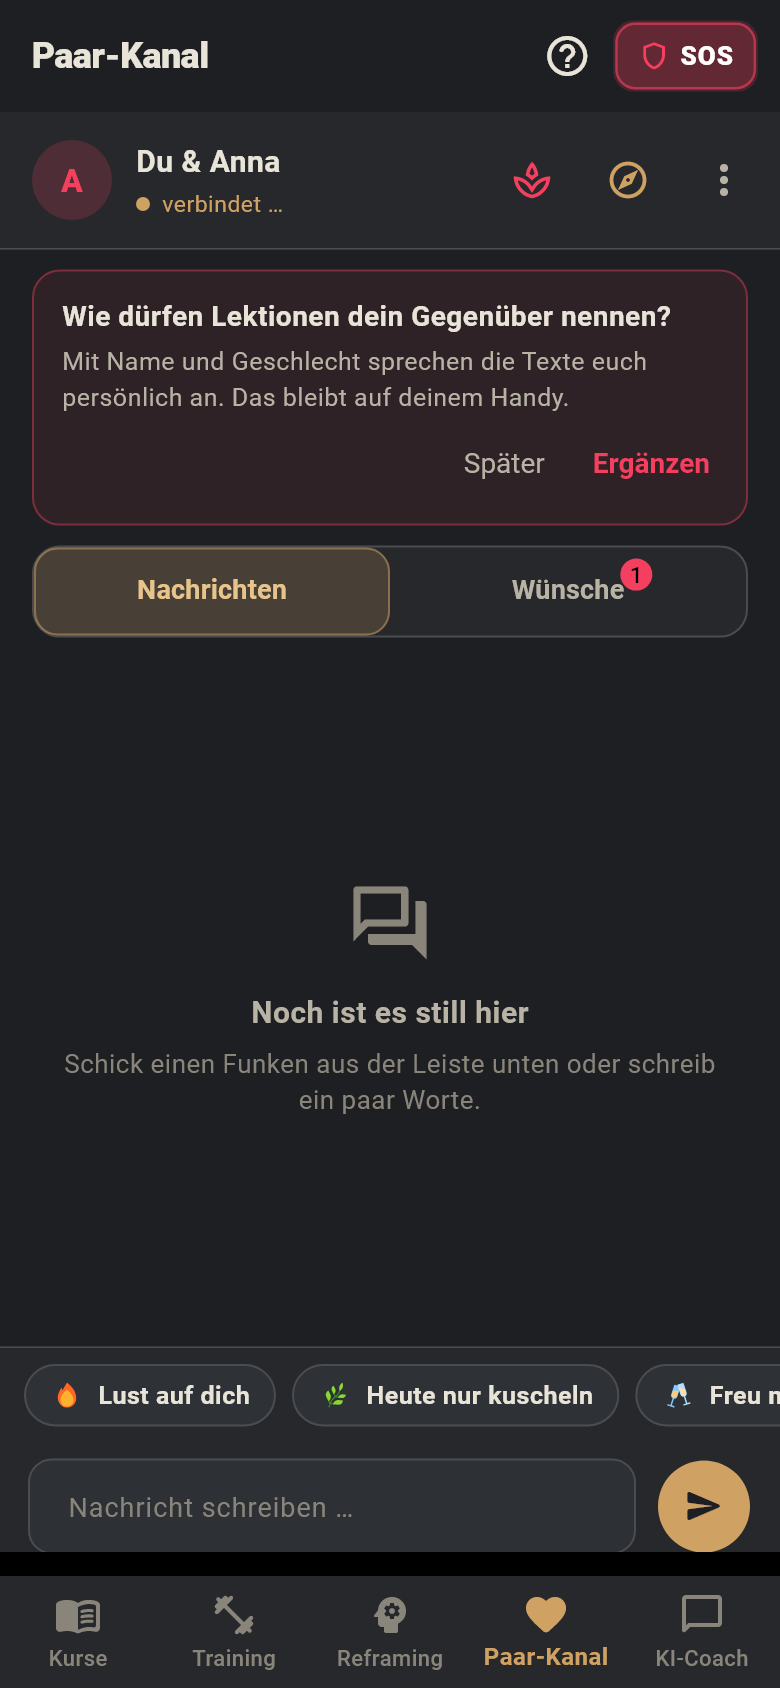
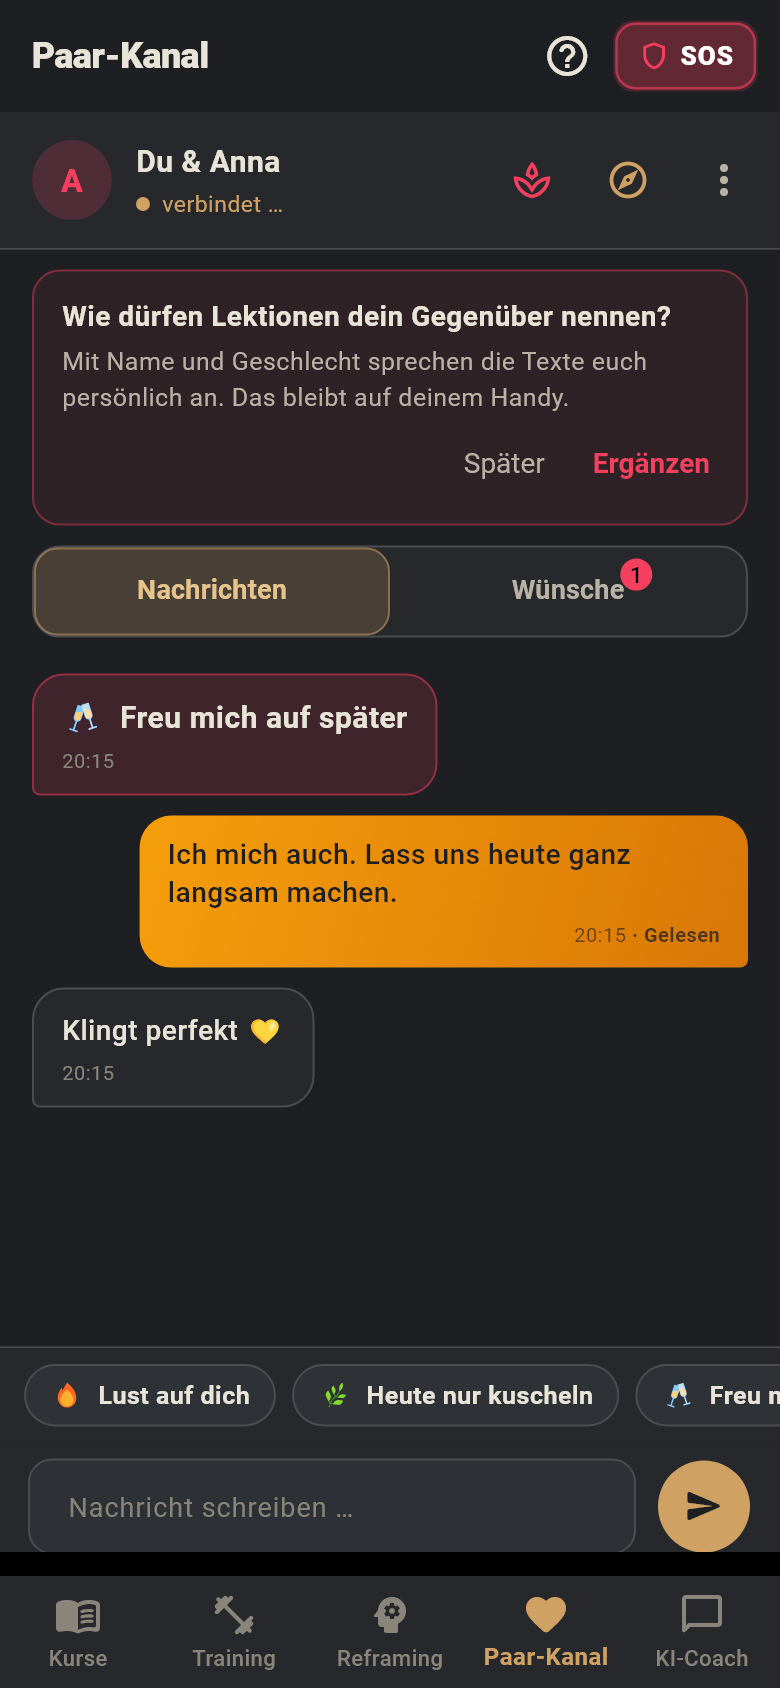
Paar-Kanal-Screenshot wieder mit erfundenen Beispielnachrichten

Changed region(s): [[0.0308, 0.4005, 0.9846, 0.6777], [0.7385, 0.6161, 0.9231, 0.6469]]

diff --git a/test_screens/screens_test.dart b/test_screens/screens_test.dart
@@ -161,7 +161,12 @@ void main() {
       final now = DateTime(2026, 10, 23, 20, 15);
       await prefs.setString('velvet_partner_pubkey', 'a' * 64);
       await prefs.setString('velvet_partner_name', 'Anna');
-      // Bewusst ohne Nachrichten: Die Bilder landen in der README, Chats werden nicht veröffentlicht.
+      // Erfundene Beispielnachrichten eines Beispielpaars (Alex und Anna); keine echten Chats.
+      await prefs.setString('velvet_couple_messages_cache', jsonEncode([
+        {'id': '1', 'isMe': false, 'type': 'ping', 'emoji': '🥂', 'text': 'Freu mich auf später', 'createdAt': '$now'},
+        {'id': '2', 'isMe': true, 'type': 'chat', 'text': 'Ich mich auch. Lass uns heute ganz langsam machen.', 'createdAt': '$now'},
+        {'id': '3', 'isMe': false, 'type': 'chat', 'text': 'Klingt perfekt 💛', 'createdAt': '$now'},
+      ]));
       await prefs.setString('velvet_my_fantasy_votes', jsonEncode({'match_blindfold': 'yes'}));
       await prefs.setString('velvet_partner_fantasy_votes', jsonEncode({'match_blindfold': 'yes'}));
       await NostrService().reloadKeysFromPrefs();
